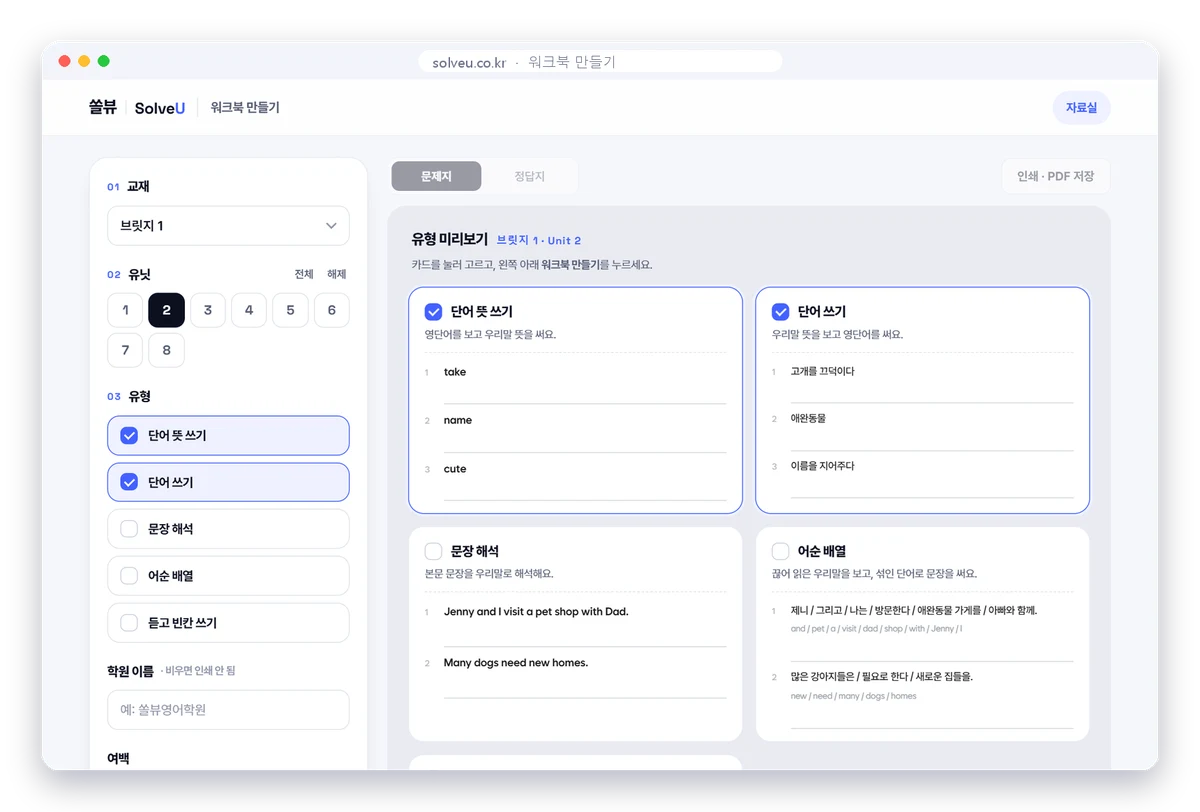
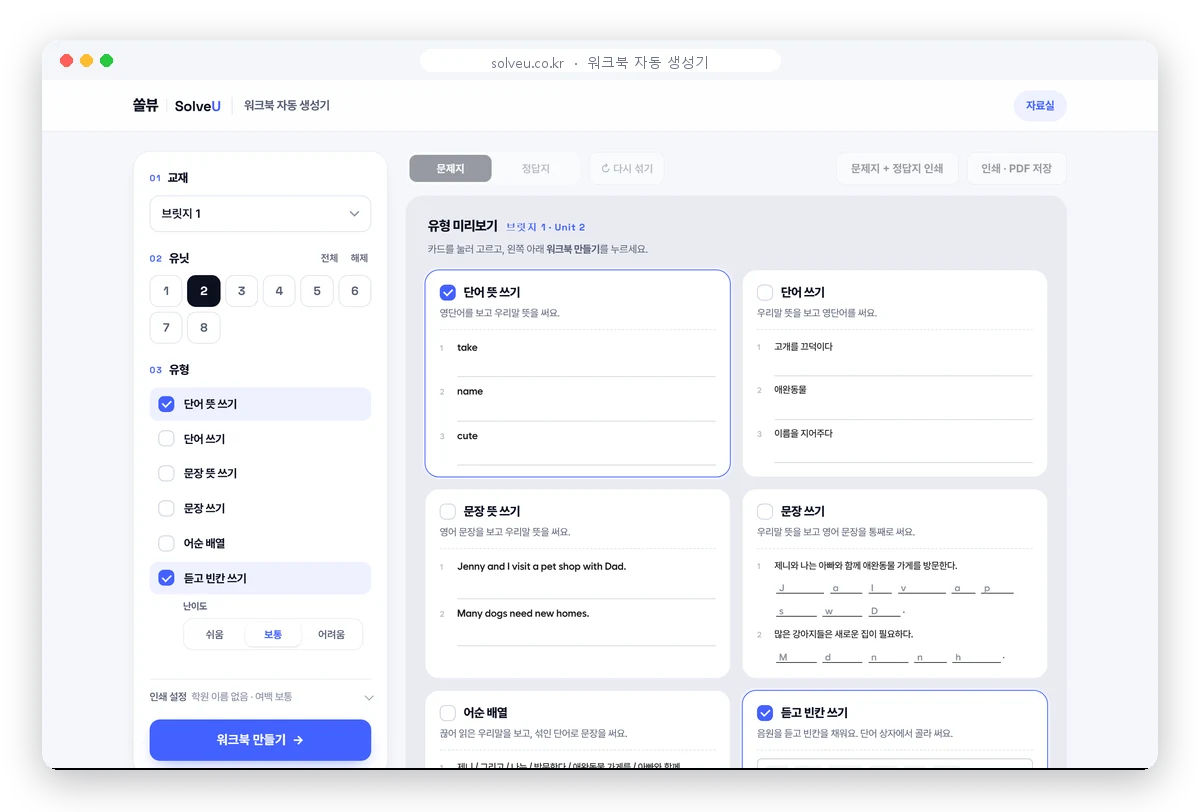
[생성기] 홈페이지 진단 보완(사용자 지시, 홈페이지 창 대신): 생성기 6가지 유형·새 캡처, 문의 FAQ 선생님 자료 '곧 열려요', 홈 E-Book·생성기 카드 '곧 열려요', 학년 표시 글씨 12.5px, 휴대폰 누르는 곳 넉넉하게

diff --git a/contact/index.html b/contact/index.html
@@ -14,7 +14,7 @@
 <link rel="stylesheet" href="https://cdn.jsdelivr.net/gh/orioncactus/pretendard@v1.3.9/dist/web/variable/pretendardvariable-dynamic-subset.min.css">
 <link rel="preconnect" href="https://fonts.googleapis.com"><link rel="preconnect" href="https://fonts.gstatic.com" crossorigin>
 <link href="https://fonts.googleapis.com/css2?family=Space+Grotesk:wght@500;600;700&display=swap" rel="stylesheet">
-<link rel="stylesheet" href="/assets/site.css?v=6b867f54">
+<link rel="stylesheet" href="/assets/site.css?v=b7f4b84a">
 <style>
 .top{padding:56px 0 8px}
 .top h1{font-size:clamp(32px,4.6vw,50px);font-weight:800;letter-spacing:-.05em;margin-top:14px}
@@ -75,7 +75,7 @@
 
 <section class="top"><div class="wrap">
   <h1 class="rev">무엇이 궁금하세요?</h1>
-  <div class="faq"><details class="rev"><summary>우리 아이는 어느 교재부터 시작하나요?</summary><div class="a">학년보다 지금 실력으로 골라요.<ul class="pick"><li><span>영어를 아직 못 읽어요</span><a class="bk" href="/books/phonics/">파닉스</a></li><li><span>문장은 처음이에요</span><a class="bk" href="/books/starter/">스타터</a></li><li><span>품사부터 차근차근 잡아요</span><a class="bk" href="/books/bridge/">브릿지</a></li><li><span>문장을 정확하게 해석해요<small>중학생 기초 다지기로 좋아요</small></span><a class="bk" href="/books/intro/">입문</a></li><li><span>문장 구조를 보며 읽어요<small>고등학생 기초 다지기로 좋아요</small></span><a class="bk" href="/books/basic/">기본</a></li><li><span>모의고사를 처음 준비해요</span><a class="bk" href="/books/mock/">첫모의고사</a></li><li><span>처음 문법을 시작해요</span><a class="bk" href="/books/grammar/">그래머&라이팅</a></li></ul>교재마다 한 유닛을 미리 풀어 볼 수 있어요.<a class="go" href="/home/#books">단계별 교재 보기 →</a></div></details><details class="rev"><summary>꼭 순서대로 해야 하나요?</summary><div class="a">파닉스 → 스타터 → 브릿지 → 입문 → 기본 → 첫모의고사 순서예요. 실력이 되면 건너뛰어도 돼요. 그래머&라이팅은 브릿지~기본과 함께 써요.</div></details><details class="rev"><summary>한 권 끝내는 데 얼마나 걸리나요?</summary><div class="a"><ul class="pick"><li><span>파닉스</span><b class="v">1·2권 약 3개월 (초등 고학년·중등 약 1~2개월)</b></li><li><span>스타터</span><b class="v">권당 약 23회</b></li><li><span>브릿지</span><b class="v">1권 약 23회 · 2권 약 26회</b></li><li><span>입문 · 기본 · 첫모의고사</span><b class="v">권당 약 16회</b></li><li><span>그래머&라이팅</span><b class="v">권당 약 14회</b></li></ul></div></details><details class="rev"><summary>교재는 어디서 사나요?</summary><div class="a">스마트스토어에서 팔아요. 배송·교환·반품도 스마트스토어 안내를 따라요.<a class="go store">스마트스토어 열기</a></div></details><details class="rev"><summary>다음 권은 언제 나오나요?</summary><div class="a">출간되면 홈페이지·스토어에 가장 먼저 알려 드려요.</div></details><details class="rev"><summary>음원·강의를 QR 없이 들을 수 있나요?</summary><div class="a">네. 교재와 유닛을 고르면 바로 들을 수 있어요. 로그인 없이 컴퓨터·태블릿에서도 열려요.<a class="go" href="/studio/">음원·강의 →</a></div></details><details class="rev"><summary>강의는 따로 돈을 내나요?</summary><div class="a">아니요, 무료예요. 스타터·입문을 뺀 모든 교재에 저자 강의가 있어요.<a class="go" href="/studio/">음원·강의 →</a></div></details><details class="rev"><summary>선생님용 자료는 어디서 받나요?</summary><div class="a">수업가이드·학부모 상담 자료·수업용 E-Book·워크북 자동 생성기를 휴대폰 문자 인증 한 번으로 받을 수 있어요.<a class="go" href="/library/#teacher">선생님 자료실 →</a></div></details><details class="rev"><summary>정답지가 있나요?</summary><div class="a">네, 누구나 무료로 받을 수 있어요.<a class="go" href="/library/#books">정답 PDF 받기 →</a></div></details></div>
+  <div class="faq"><details class="rev"><summary>우리 아이는 어느 교재부터 시작하나요?</summary><div class="a">학년보다 지금 실력으로 골라요.<ul class="pick"><li><span>영어를 아직 못 읽어요</span><a class="bk" href="/books/phonics/">파닉스</a></li><li><span>문장은 처음이에요</span><a class="bk" href="/books/starter/">스타터</a></li><li><span>품사부터 차근차근 잡아요</span><a class="bk" href="/books/bridge/">브릿지</a></li><li><span>문장을 정확하게 해석해요<small>중학생 기초 다지기로 좋아요</small></span><a class="bk" href="/books/intro/">입문</a></li><li><span>문장 구조를 보며 읽어요<small>고등학생 기초 다지기로 좋아요</small></span><a class="bk" href="/books/basic/">기본</a></li><li><span>모의고사를 처음 준비해요</span><a class="bk" href="/books/mock/">첫모의고사</a></li><li><span>처음 문법을 시작해요</span><a class="bk" href="/books/grammar/">그래머&라이팅</a></li></ul>교재마다 한 유닛을 미리 풀어 볼 수 있어요.<a class="go" href="/home/#books">단계별 교재 보기 →</a></div></details><details class="rev"><summary>꼭 순서대로 해야 하나요?</summary><div class="a">파닉스 → 스타터 → 브릿지 → 입문 → 기본 → 첫모의고사 순서예요. 실력이 되면 건너뛰어도 돼요. 그래머&라이팅은 브릿지~기본과 함께 써요.</div></details><details class="rev"><summary>한 권 끝내는 데 얼마나 걸리나요?</summary><div class="a"><ul class="pick"><li><span>파닉스</span><b class="v">1·2권 약 3개월 (초등 고학년·중등 약 1~2개월)</b></li><li><span>스타터</span><b class="v">권당 약 23회</b></li><li><span>브릿지</span><b class="v">1권 약 23회 · 2권 약 26회</b></li><li><span>입문 · 기본 · 첫모의고사</span><b class="v">권당 약 16회</b></li><li><span>그래머&라이팅</span><b class="v">권당 약 14회</b></li></ul></div></details><details class="rev"><summary>교재는 어디서 사나요?</summary><div class="a">스마트스토어에서 팔아요. 배송·교환·반품도 스마트스토어 안내를 따라요.<a class="go store">스마트스토어 열기</a></div></details><details class="rev"><summary>다음 권은 언제 나오나요?</summary><div class="a">출간되면 홈페이지·스토어에 가장 먼저 알려 드려요.</div></details><details class="rev"><summary>음원·강의를 QR 없이 들을 수 있나요?</summary><div class="a">네. 교재와 유닛을 고르면 바로 들을 수 있어요. 로그인 없이 컴퓨터·태블릿에서도 열려요.<a class="go" href="/studio/">음원·강의 →</a></div></details><details class="rev"><summary>강의는 따로 돈을 내나요?</summary><div class="a">아니요, 무료예요. 스타터·입문을 뺀 모든 교재에 저자 강의가 있어요.<a class="go" href="/studio/">음원·강의 →</a></div></details><details class="rev"><summary>선생님용 자료는 어디서 받나요?</summary><div class="a">수업용 E-Book·워크북 자동 생성기 같은 선생님 전용 자료는 곧 열려요. 열리면 휴대폰 문자 인증 한 번으로 모두 무료로 쓸 수 있어요.<a class="go" href="/library/#teacher">선생님 자료실 →</a></div></details><details class="rev"><summary>정답지가 있나요?</summary><div class="a">네, 누구나 무료로 받을 수 있어요.<a class="go" href="/library/#books">정답 PDF 받기 →</a></div></details></div>
   <div class="more rev"><b>찾는 답이 없나요?</b>
     <div class="mbtn"><a href="/report/"><span class="ic"><svg viewBox="0 0 24 24" aria-hidden="true"><path fill="none" stroke="currentColor" stroke-width="2" stroke-linejoin="round" d="M6 21V4m0 1h11l-2 4 2 4H6"/></svg></span>오타·정답 오류 신고</a><a class="store"><span class="ic"><svg viewBox="0 0 24 24" aria-hidden="true"><path fill="none" stroke="currentColor" stroke-width="2" stroke-linejoin="round" d="M5 8h14l-1 12H6zM9 8V6a3 3 0 0 1 6 0v2"/></svg></span>구매·배송 문의</a><a class="talk"><span class="ic"><svg viewBox="0 0 24 24" aria-hidden="true"><path fill="none" stroke="currentColor" stroke-width="2" stroke-linejoin="round" d="M4 5h16v11H9l-5 4z"/></svg></span>그 밖의 문의</a></div>
   </div>
@@ -89,8 +89,8 @@
   <nav><a href="/home/#books">교재</a><a href="/studio/">음원·강의</a><a href="https://www.youtube.com/channel/UCoLiIPQe_U01fMFa0X1F2ng/playlists" target="_blank" rel="noopener">유튜브 강의 ↗</a><a href="https://www.instagram.com/solveu_baek/" target="_blank" rel="noopener">인스타그램 ↗</a><a href="/library/">자료실</a><a href="/contact/">문의</a><a href="/report/">오류 신고</a><a class="store">스마트스토어</a><a class="talk">톡톡</a><a href="/terms/">이용약관</a><a href="/privacy/">개인정보처리방침</a></nav>
   <span class="biz"></span>
 </div></footer>
-<script src="/assets/reviews.js?v=6b867f54"></script>
-<script src="/assets/site.js?v=6b867f54"></script>
+<script src="/assets/reviews.js?v=b7f4b84a"></script>
+<script src="/assets/site.js?v=b7f4b84a"></script>
 <script></script>
 <script defer src="https://static.cloudflareinsights.com/beacon.min.js" data-cf-beacon='{"token": "be34a6ce385a49cfa586185de49690a5"}'></script>
 </body>

diff --git a/home/index.html b/home/index.html
@@ -15,7 +15,7 @@
 <link rel="stylesheet" href="https://cdn.jsdelivr.net/gh/orioncactus/pretendard@v1.3.9/dist/web/variable/pretendardvariable-dynamic-subset.min.css">
 <link rel="preconnect" href="https://fonts.googleapis.com"><link rel="preconnect" href="https://fonts.gstatic.com" crossorigin>
 <link href="https://fonts.googleapis.com/css2?family=Space+Grotesk:wght@500;600;700&display=swap" rel="stylesheet">
-<link rel="stylesheet" href="/assets/site.css?v=6b867f54">
+<link rel="stylesheet" href="/assets/site.css?v=b7f4b84a">
 <style>
 .stp .one small{display:block;font-size:12.5px;color:var(--mute);margin-top:2px}
 /* 어디서부터 시작할까요 */
@@ -101,7 +101,7 @@
 .stp:hover{border-color:var(--ink);transform:translateY(-3px)}
 .stp .no{display:flex;align-items:center;justify-content:space-between;gap:8px}
 .stp .no b{font-family:var(--mono);font-size:13px;font-weight:700;color:var(--brand)}
-.stp .no .chip{font-size:11.5px;padding:4px 9px}
+.stp .no .chip{font-size:12.5px;padding:4px 9px}
 .stp .nm{font-size:19px;font-weight:800;letter-spacing:-.04em;margin-top:12px}
 .stp .one{font-size:13.5px;color:var(--sub);line-height:1.5;margin-top:6px}
 .stp .cv{display:flex;gap:6px;align-items:flex-end;margin-top:auto;padding-top:14px}
@@ -188,7 +188,7 @@
 
 <section class="sec" id="tools"><div class="wrap">
   <div class="sh rev"><h2>책 한 권에 수업 도구까지</h2></div>
-  <div class="tg"><a class="tl rev" href="/studio/"><i><svg viewBox="0 0 24 24" aria-hidden="true"><path fill="none" stroke="currentColor" stroke-width="2" d="M4 4h6v6H4zM14 4h6v6h-6zM4 14h6v6H4z"/><path fill="currentColor" d="M14 14h3v3h-3zM17 17h3v3h-3z"/></svg></i><b>QR 음원</b><span>책의 QR로 듣고 녹음 숙제까지</span></a><a class="tl rev" href="https://www.youtube.com/channel/UCoLiIPQe_U01fMFa0X1F2ng/playlists" target="_blank" rel="noopener"><i><svg viewBox="0 0 24 24" aria-hidden="true"><rect x="3" y="5" width="18" height="14" rx="3" fill="none" stroke="currentColor" stroke-width="2"/><path fill="currentColor" d="M10 9v6l5-3z"/></svg></i><b>저자 직강</b><span>유튜브에 전체 공개 ↗</span></a><a class="tl rev tch" href="/library/#ebook"><i><svg viewBox="0 0 24 24" aria-hidden="true"><rect x="3" y="4" width="18" height="12" rx="2" fill="none" stroke="currentColor" stroke-width="2"/><path fill="none" stroke="currentColor" stroke-width="2" stroke-linecap="round" d="M9 20h6M12 16v4M7 12l3-3 2 2 4-4"/></svg></i><em>선생님용</em><b>수업용 E-Book</b><span>교재 그대로 전자칠판에 띄워 판서해요</span></a><a class="tl rev tch" href="/library/#workbook"><i><svg viewBox="0 0 24 24" aria-hidden="true"><path fill="none" stroke="currentColor" stroke-width="2" stroke-linejoin="round" d="M8 3h10v14H8zM5 7v14h10"/><path fill="none" stroke="currentColor" stroke-width="2" stroke-linecap="round" d="M11 8h4M11 12h4"/></svg></i><em>선생님용</em><b>워크북 자동 생성기</b><span>유닛만 고르면 1분, 정답지까지</span></a></div>
+  <div class="tg"><a class="tl rev" href="/studio/"><i><svg viewBox="0 0 24 24" aria-hidden="true"><path fill="none" stroke="currentColor" stroke-width="2" d="M4 4h6v6H4zM14 4h6v6h-6zM4 14h6v6H4z"/><path fill="currentColor" d="M14 14h3v3h-3zM17 17h3v3h-3z"/></svg></i><b>QR 음원</b><span>책의 QR로 듣고 녹음 숙제까지</span></a><a class="tl rev" href="https://www.youtube.com/channel/UCoLiIPQe_U01fMFa0X1F2ng/playlists" target="_blank" rel="noopener"><i><svg viewBox="0 0 24 24" aria-hidden="true"><rect x="3" y="5" width="18" height="14" rx="3" fill="none" stroke="currentColor" stroke-width="2"/><path fill="currentColor" d="M10 9v6l5-3z"/></svg></i><b>저자 직강</b><span>유튜브에 전체 공개 ↗</span></a><a class="tl rev tch" href="/library/#ebook"><i><svg viewBox="0 0 24 24" aria-hidden="true"><rect x="3" y="4" width="18" height="12" rx="2" fill="none" stroke="currentColor" stroke-width="2"/><path fill="none" stroke="currentColor" stroke-width="2" stroke-linecap="round" d="M9 20h6M12 16v4M7 12l3-3 2 2 4-4"/></svg></i><em>곧 열려요</em><b>수업용 E-Book</b><span>교재 그대로 전자칠판에 띄워 판서해요</span></a><a class="tl rev tch" href="/library/#workbook"><i><svg viewBox="0 0 24 24" aria-hidden="true"><path fill="none" stroke="currentColor" stroke-width="2" stroke-linejoin="round" d="M8 3h10v14H8zM5 7v14h10"/><path fill="none" stroke="currentColor" stroke-width="2" stroke-linecap="round" d="M11 8h4M11 12h4"/></svg></i><em>곧 열려요</em><b>워크북 자동 생성기</b><span>유닛만 고르면 1분, 정답지까지</span></a></div>
 </div></section>
 
 <section class="sec" id="author"><div class="wrap">
@@ -221,8 +221,8 @@
   <nav><a href="/home/#books">교재</a><a href="/studio/">음원·강의</a><a href="https://www.youtube.com/channel/UCoLiIPQe_U01fMFa0X1F2ng/playlists" target="_blank" rel="noopener">유튜브 강의 ↗</a><a href="https://www.instagram.com/solveu_baek/" target="_blank" rel="noopener">인스타그램 ↗</a><a href="/library/">자료실</a><a href="/contact/">문의</a><a href="/report/">오류 신고</a><a class="store">스마트스토어</a><a class="talk">톡톡</a><a href="/terms/">이용약관</a><a href="/privacy/">개인정보처리방침</a></nav>
   <span class="biz"></span>
 </div></footer>
-<script src="/assets/reviews.js?v=6b867f54"></script>
-<script src="/assets/site.js?v=6b867f54"></script>
+<script src="/assets/reviews.js?v=b7f4b84a"></script>
+<script src="/assets/site.js?v=b7f4b84a"></script>
 <script>
 var S=SOLVEU;
 /* 첫 화면 숫자: 처음 한 번 0부터 올라감 */

diff --git a/library/index.html b/library/index.html
@@ -14,7 +14,7 @@
 <link rel="stylesheet" href="https://cdn.jsdelivr.net/gh/orioncactus/pretendard@v1.3.9/dist/web/variable/pretendardvariable-dynamic-subset.min.css">
 <link rel="preconnect" href="https://fonts.googleapis.com"><link rel="preconnect" href="https://fonts.gstatic.com" crossorigin>
 <link href="https://fonts.googleapis.com/css2?family=Space+Grotesk:wght@500;600;700&display=swap" rel="stylesheet">
-<link rel="stylesheet" href="/assets/site.css?v=6b867f54">
+<link rel="stylesheet" href="/assets/site.css?v=b7f4b84a">
 <style>
 /* E-Book · 워크북 자동 생성기 소개 */
 .tshow{display:flex;flex-direction:column;gap:22px;margin-top:40px}
@@ -241,7 +241,7 @@
       
     <div class="tools2 rev">
       <div class="tc" id="ebook"><div class="im"><img src="/library/img/ebook_show.webp" alt="수업용 E-Book 화면" loading="lazy"></div><div class="tx"><span class="tg">선생님용 · 책 14권</span><h3>수업용 E-Book</h3><p>교재 그대로 전자칠판에 띄워 판서하고, 정답을 하나씩 공개해요.</p></div></div>
-      <div class="tc" id="workbook"><div class="im"><img src="/academy/img/tool_workbook_ui.webp?v=2" alt="워크북 자동 생성기 화면" loading="lazy"></div><div class="tx"><span class="tg">선생님용 · 책 12권</span><h3>워크북 자동 생성기</h3><p>유닛만 고르면 1분. 5가지 유형 워크북이 정답지와 함께 나와요.</p></div></div>
+      <div class="tc" id="workbook"><div class="im"><img src="/academy/img/tool_workbook_ui.webp?v=3" alt="워크북 자동 생성기 화면" loading="lazy"></div><div class="tx"><span class="tg">선생님용 · 책 12권</span><h3>워크북 자동 생성기</h3><p>유닛만 고르면 1분. 6가지 유형 워크북이 정답지와 함께 나와요.</p></div></div>
     </div>
       <div class="xtra rev"><b class="xh">인쇄해서 바로 쓰는 자료</b><ul>
         <li><b>수업가이드</b><span>교재마다 유닛 흐름과 회차 구성</span></li>
@@ -270,8 +270,8 @@
   <nav><a href="/home/#books">교재</a><a href="/studio/">음원·강의</a><a href="https://www.youtube.com/channel/UCoLiIPQe_U01fMFa0X1F2ng/playlists" target="_blank" rel="noopener">유튜브 강의 ↗</a><a href="https://www.instagram.com/solveu_baek/" target="_blank" rel="noopener">인스타그램 ↗</a><a href="/library/">자료실</a><a href="/contact/">문의</a><a href="/report/">오류 신고</a><a class="store">스마트스토어</a><a class="talk">톡톡</a><a href="/terms/">이용약관</a><a href="/privacy/">개인정보처리방침</a></nav>
   <span class="biz"></span>
 </div></footer>
-<script src="/assets/reviews.js?v=6b867f54"></script>
-<script src="/assets/site.js?v=6b867f54"></script>
+<script src="/assets/reviews.js?v=b7f4b84a"></script>
+<script src="/assets/site.js?v=b7f4b84a"></script>
 <script></script>
 <script defer src="https://static.cloudflareinsights.com/beacon.min.js" data-cf-beacon='{"token": "be34a6ce385a49cfa586185de49690a5"}'></script>
 </body>

diff --git a/studio/index.html b/studio/index.html
@@ -14,7 +14,7 @@
 <link rel="stylesheet" href="https://cdn.jsdelivr.net/gh/orioncactus/pretendard@v1.3.9/dist/web/variable/pretendardvariable-dynamic-subset.min.css">
 <link rel="preconnect" href="https://fonts.googleapis.com"><link rel="preconnect" href="https://fonts.gstatic.com" crossorigin>
 <link href="https://fonts.googleapis.com/css2?family=Space+Grotesk:wght@500;600;700&display=swap" rel="stylesheet">
-<link rel="stylesheet" href="/assets/site.css?v=6b867f54">
+<link rel="stylesheet" href="/assets/site.css?v=b7f4b84a">
 <style>
 .st{max-width:1160px;margin:0 auto;padding:44px 24px 24px;min-height:60vh}
 .st h1{font-size:clamp(30px,4.4vw,46px);font-weight:800;letter-spacing:-.05em;line-height:1.15}
@@ -250,8 +250,8 @@
   <nav><a href="/home/#books">교재</a><a href="/studio/">음원·강의</a><a href="https://www.youtube.com/channel/UCoLiIPQe_U01fMFa0X1F2ng/playlists" target="_blank" rel="noopener">유튜브 강의 ↗</a><a href="https://www.instagram.com/solveu_baek/" target="_blank" rel="noopener">인스타그램 ↗</a><a href="/library/">자료실</a><a href="/contact/">문의</a><a href="/report/">오류 신고</a><a class="store">스마트스토어</a><a class="talk">톡톡</a><a href="/terms/">이용약관</a><a href="/privacy/">개인정보처리방침</a></nav>
   <span class="biz"></span>
 </div></footer>
-<script src="/assets/reviews.js?v=6b867f54"></script>
-<script src="/assets/site.js?v=6b867f54"></script>
+<script src="/assets/reviews.js?v=b7f4b84a"></script>
+<script src="/assets/site.js?v=b7f4b84a"></script>
 <script>
 const BOOKS = window.BOOKS||[];
 const NAME = {"ph1": "저절로 파닉스 1", "ph2": "저절로 파닉스 2", "rst1": "저절로 스타터 1", "rst2": "저절로 스타터 2", "rbr1": "저절로 브릿지 1", "rbr2": "저절로 브릿지 2", "rin1": "저절로 입문 1", "rin2": "저절로 입문 2", "rba1": "저절로 기본 1", "rba2": "저절로 기본 2", "rmo1": "저절로 첫모의고사 1", "rmo2": "저절로 첫모의고사 2", "gw1": "저절로 그래머&라이팅 1", "gw2": "저절로 그래머&라이팅 2"}, SLUG = {"ph": "phonics", "rst": "starter", "rbr": "bridge", "rin": "intro", "rba": "basic", "rmo": "mock", "gw": "grammar"}, STEPL = {"ph1": "1단계 · 파닉스", "ph2": "1단계 · 파닉스", "rst1": "2단계 · 스타터", "rst2": "2단계 · 스타터", "rbr1": "3단계 · 브릿지", "rbr2": "3단계 · 브릿지", "rin1": "4단계 · 입문", "rin2": "4단계 · 입문", "rba1": "5단계 · 기본", "rba2": "5단계 · 기본", "rmo1": "6단계 · 첫모의고사", "rmo2": "6단계 · 첫모의고사", "gw1": "문법·쓰기", "gw2": "문법·쓰기"};

diff --git a/reviews/index.html b/reviews/index.html
@@ -14,7 +14,7 @@
 <link rel="stylesheet" href="https://cdn.jsdelivr.net/gh/orioncactus/pretendard@v1.3.9/dist/web/variable/pretendardvariable-dynamic-subset.min.css">
 <link rel="preconnect" href="https://fonts.googleapis.com"><link rel="preconnect" href="https://fonts.gstatic.com" crossorigin>
 <link href="https://fonts.googleapis.com/css2?family=Space+Grotesk:wght@500;600;700&display=swap" rel="stylesheet">
-<link rel="stylesheet" href="/assets/site.css?v=6b867f54">
+<link rel="stylesheet" href="/assets/site.css?v=b7f4b84a">
 <style>
 .rvpg{padding-top:56px}
 .rvtop{display:flex;align-items:baseline;gap:10px;margin-top:18px}.rvtop b{font-size:28px;font-weight:800}.rvtop span{color:var(--sub);font-size:14.5px;font-weight:600}
@@ -56,8 +56,8 @@
   <nav><a href="/home/#books">교재</a><a href="/studio/">음원·강의</a><a href="https://www.youtube.com/channel/UCoLiIPQe_U01fMFa0X1F2ng/playlists" target="_blank" rel="noopener">유튜브 강의 ↗</a><a href="https://www.instagram.com/solveu_baek/" target="_blank" rel="noopener">인스타그램 ↗</a><a href="/library/">자료실</a><a href="/contact/">문의</a><a href="/report/">오류 신고</a><a class="store">스마트스토어</a><a class="talk">톡톡</a><a href="/terms/">이용약관</a><a href="/privacy/">개인정보처리방침</a></nav>
   <span class="biz"></span>
 </div></footer>
-<script src="/assets/reviews.js?v=6b867f54"></script>
-<script src="/assets/site.js?v=6b867f54"></script>
+<script src="/assets/reviews.js?v=b7f4b84a"></script>
+<script src="/assets/site.js?v=b7f4b84a"></script>
 <script>(function(){var R=(window.SOLVEU_REVIEWS||[]).slice(),role="all",step=new URLSearchParams(location.search).get("step")||"all";
 var esc=function(t){return String(t).replace(/[&<>"]/g,function(c){return{"&":"&amp;","<":"&lt;",">":"&gt;",'"':"&quot;"}[c];});};
 function draw(){var L=R.filter(function(v){return(role==="all"||v.role===role)&&(step==="all"||v.step===step);});

diff --git a/books/basic/index.html b/books/basic/index.html
@@ -15,7 +15,7 @@
 <link rel="stylesheet" href="https://cdn.jsdelivr.net/gh/orioncactus/pretendard@v1.3.9/dist/web/variable/pretendardvariable-dynamic-subset.min.css">
 <link rel="preconnect" href="https://fonts.googleapis.com"><link rel="preconnect" href="https://fonts.gstatic.com" crossorigin>
 <link href="https://fonts.googleapis.com/css2?family=Space+Grotesk:wght@500;600;700&display=swap" rel="stylesheet">
-<link rel="stylesheet" href="/assets/site.css?v=6b867f54">
+<link rel="stylesheet" href="/assets/site.css?v=b7f4b84a">
 <style>
 .bk-hero{padding:28px 0 64px;border-bottom:1px solid var(--line)}
 .bk-hero .split{display:grid;grid-template-columns:minmax(0,1.1fr) minmax(0,.9fr);gap:48px;align-items:center;margin-top:36px}
@@ -165,8 +165,8 @@
   <nav><a href="/home/#books">교재</a><a href="/studio/">음원·강의</a><a href="https://www.youtube.com/channel/UCoLiIPQe_U01fMFa0X1F2ng/playlists" target="_blank" rel="noopener">유튜브 강의 ↗</a><a href="https://www.instagram.com/solveu_baek/" target="_blank" rel="noopener">인스타그램 ↗</a><a href="/library/">자료실</a><a href="/contact/">문의</a><a href="/report/">오류 신고</a><a class="store">스마트스토어</a><a class="talk">톡톡</a><a href="/terms/">이용약관</a><a href="/privacy/">개인정보처리방침</a></nav>
   <span class="biz"></span>
 </div></footer>
-<script src="/assets/reviews.js?v=6b867f54"></script>
-<script src="/assets/site.js?v=6b867f54"></script>
+<script src="/assets/reviews.js?v=b7f4b84a"></script>
+<script src="/assets/site.js?v=b7f4b84a"></script>
 <script>
 S=SOLVEU;
 function tabs(tabSel,panSel){S.$$(tabSel).forEach(function(t){t.onclick=function(){var i=t.dataset.i;S.$$(tabSel).forEach(function(x){x.setAttribute("aria-selected",x===t?"true":"false")});S.$$(panSel).forEach(function(d){d.hidden=d.dataset.i!==i;});};});}

diff --git a/books/bridge/index.html b/books/bridge/index.html
@@ -15,7 +15,7 @@
 <link rel="stylesheet" href="https://cdn.jsdelivr.net/gh/orioncactus/pretendard@v1.3.9/dist/web/variable/pretendardvariable-dynamic-subset.min.css">
 <link rel="preconnect" href="https://fonts.googleapis.com"><link rel="preconnect" href="https://fonts.gstatic.com" crossorigin>
 <link href="https://fonts.googleapis.com/css2?family=Space+Grotesk:wght@500;600;700&display=swap" rel="stylesheet">
-<link rel="stylesheet" href="/assets/site.css?v=6b867f54">
+<link rel="stylesheet" href="/assets/site.css?v=b7f4b84a">
 <style>
 .bk-hero{padding:28px 0 64px;border-bottom:1px solid var(--line)}
 .bk-hero .split{display:grid;grid-template-columns:minmax(0,1.1fr) minmax(0,.9fr);gap:48px;align-items:center;margin-top:36px}
@@ -165,8 +165,8 @@
   <nav><a href="/home/#books">교재</a><a href="/studio/">음원·강의</a><a href="https://www.youtube.com/channel/UCoLiIPQe_U01fMFa0X1F2ng/playlists" target="_blank" rel="noopener">유튜브 강의 ↗</a><a href="https://www.instagram.com/solveu_baek/" target="_blank" rel="noopener">인스타그램 ↗</a><a href="/library/">자료실</a><a href="/contact/">문의</a><a href="/report/">오류 신고</a><a class="store">스마트스토어</a><a class="talk">톡톡</a><a href="/terms/">이용약관</a><a href="/privacy/">개인정보처리방침</a></nav>
   <span class="biz"></span>
 </div></footer>
-<script src="/assets/reviews.js?v=6b867f54"></script>
-<script src="/assets/site.js?v=6b867f54"></script>
+<script src="/assets/reviews.js?v=b7f4b84a"></script>
+<script src="/assets/site.js?v=b7f4b84a"></script>
 <script>
 S=SOLVEU;
 function tabs(tabSel,panSel){S.$$(tabSel).forEach(function(t){t.onclick=function(){var i=t.dataset.i;S.$$(tabSel).forEach(function(x){x.setAttribute("aria-selected",x===t?"true":"false")});S.$$(panSel).forEach(function(d){d.hidden=d.dataset.i!==i;});};});}

diff --git a/books/grammar/index.html b/books/grammar/index.html
@@ -15,7 +15,7 @@
 <link rel="stylesheet" href="https://cdn.jsdelivr.net/gh/orioncactus/pretendard@v1.3.9/dist/web/variable/pretendardvariable-dynamic-subset.min.css">
 <link rel="preconnect" href="https://fonts.googleapis.com"><link rel="preconnect" href="https://fonts.gstatic.com" crossorigin>
 <link href="https://fonts.googleapis.com/css2?family=Space+Grotesk:wght@500;600;700&display=swap" rel="stylesheet">
-<link rel="stylesheet" href="/assets/site.css?v=6b867f54">
+<link rel="stylesheet" href="/assets/site.css?v=b7f4b84a">
 <style>
 .bk-hero{padding:28px 0 64px;border-bottom:1px solid var(--line)}
 .bk-hero .split{display:grid;grid-template-columns:minmax(0,1.1fr) minmax(0,.9fr);gap:48px;align-items:center;margin-top:36px}
@@ -165,8 +165,8 @@
   <nav><a href="/home/#books">교재</a><a href="/studio/">음원·강의</a><a href="https://www.youtube.com/channel/UCoLiIPQe_U01fMFa0X1F2ng/playlists" target="_blank" rel="noopener">유튜브 강의 ↗</a><a href="https://www.instagram.com/solveu_baek/" target="_blank" rel="noopener">인스타그램 ↗</a><a href="/library/">자료실</a><a href="/contact/">문의</a><a href="/report/">오류 신고</a><a class="store">스마트스토어</a><a class="talk">톡톡</a><a href="/terms/">이용약관</a><a href="/privacy/">개인정보처리방침</a></nav>
   <span class="biz"></span>
 </div></footer>
-<script src="/assets/reviews.js?v=6b867f54"></script>
-<script src="/assets/site.js?v=6b867f54"></script>
+<script src="/assets/reviews.js?v=b7f4b84a"></script>
+<script src="/assets/site.js?v=b7f4b84a"></script>
 <script>
 S=SOLVEU;
 function tabs(tabSel,panSel){S.$$(tabSel).forEach(function(t){t.onclick=function(){var i=t.dataset.i;S.$$(tabSel).forEach(function(x){x.setAttribute("aria-selected",x===t?"true":"false")});S.$$(panSel).forEach(function(d){d.hidden=d.dataset.i!==i;});};});}

diff --git a/books/intro/index.html b/books/intro/index.html
@@ -15,7 +15,7 @@
 <link rel="stylesheet" href="https://cdn.jsdelivr.net/gh/orioncactus/pretendard@v1.3.9/dist/web/variable/pretendardvariable-dynamic-subset.min.css">
 <link rel="preconnect" href="https://fonts.googleapis.com"><link rel="preconnect" href="https://fonts.gstatic.com" crossorigin>
 <link href="https://fonts.googleapis.com/css2?family=Space+Grotesk:wght@500;600;700&display=swap" rel="stylesheet">
-<link rel="stylesheet" href="/assets/site.css?v=6b867f54">
+<link rel="stylesheet" href="/assets/site.css?v=b7f4b84a">
 <style>
 .bk-hero{padding:28px 0 64px;border-bottom:1px solid var(--line)}
 .bk-hero .split{display:grid;grid-template-columns:minmax(0,1.1fr) minmax(0,.9fr);gap:48px;align-items:center;margin-top:36px}
@@ -165,8 +165,8 @@
   <nav><a href="/home/#books">교재</a><a href="/studio/">음원·강의</a><a href="https://www.youtube.com/channel/UCoLiIPQe_U01fMFa0X1F2ng/playlists" target="_blank" rel="noopener">유튜브 강의 ↗</a><a href="https://www.instagram.com/solveu_baek/" target="_blank" rel="noopener">인스타그램 ↗</a><a href="/library/">자료실</a><a href="/contact/">문의</a><a href="/report/">오류 신고</a><a class="store">스마트스토어</a><a class="talk">톡톡</a><a href="/terms/">이용약관</a><a href="/privacy/">개인정보처리방침</a></nav>
   <span class="biz"></span>
 </div></footer>
-<script src="/assets/reviews.js?v=6b867f54"></script>
-<script src="/assets/site.js?v=6b867f54"></script>
+<script src="/assets/reviews.js?v=b7f4b84a"></script>
+<script src="/assets/site.js?v=b7f4b84a"></script>
 <script>
 S=SOLVEU;
 function tabs(tabSel,panSel){S.$$(tabSel).forEach(function(t){t.onclick=function(){var i=t.dataset.i;S.$$(tabSel).forEach(function(x){x.setAttribute("aria-selected",x===t?"true":"false")});S.$$(panSel).forEach(function(d){d.hidden=d.dataset.i!==i;});};});}

diff --git a/books/mock/index.html b/books/mock/index.html
@@ -15,7 +15,7 @@
 <link rel="stylesheet" href="https://cdn.jsdelivr.net/gh/orioncactus/pretendard@v1.3.9/dist/web/variable/pretendardvariable-dynamic-subset.min.css">
 <link rel="preconnect" href="https://fonts.googleapis.com"><link rel="preconnect" href="https://fonts.gstatic.com" crossorigin>
 <link href="https://fonts.googleapis.com/css2?family=Space+Grotesk:wght@500;600;700&display=swap" rel="stylesheet">
-<link rel="stylesheet" href="/assets/site.css?v=6b867f54">
+<link rel="stylesheet" href="/assets/site.css?v=b7f4b84a">
 <style>
 .bk-hero{padding:28px 0 64px;border-bottom:1px solid var(--line)}
 .bk-hero .split{display:grid;grid-template-columns:minmax(0,1.1fr) minmax(0,.9fr);gap:48px;align-items:center;margin-top:36px}
@@ -164,8 +164,8 @@
   <nav><a href="/home/#books">교재</a><a href="/studio/">음원·강의</a><a href="https://www.youtube.com/channel/UCoLiIPQe_U01fMFa0X1F2ng/playlists" target="_blank" rel="noopener">유튜브 강의 ↗</a><a href="https://www.instagram.com/solveu_baek/" target="_blank" rel="noopener">인스타그램 ↗</a><a href="/library/">자료실</a><a href="/contact/">문의</a><a href="/report/">오류 신고</a><a class="store">스마트스토어</a><a class="talk">톡톡</a><a href="/terms/">이용약관</a><a href="/privacy/">개인정보처리방침</a></nav>
   <span class="biz"></span>
 </div></footer>
-<script src="/assets/reviews.js?v=6b867f54"></script>
-<script src="/assets/site.js?v=6b867f54"></script>
+<script src="/assets/reviews.js?v=b7f4b84a"></script>
+<script src="/assets/site.js?v=b7f4b84a"></script>
 <script>
 S=SOLVEU;
 function tabs(tabSel,panSel){S.$$(tabSel).forEach(function(t){t.onclick=function(){var i=t.dataset.i;S.$$(tabSel).forEach(function(x){x.setAttribute("aria-selected",x===t?"true":"false")});S.$$(panSel).forEach(function(d){d.hidden=d.dataset.i!==i;});};});}

diff --git a/books/phonics/index.html b/books/phonics/index.html
@@ -15,7 +15,7 @@
 <link rel="stylesheet" href="https://cdn.jsdelivr.net/gh/orioncactus/pretendard@v1.3.9/dist/web/variable/pretendardvariable-dynamic-subset.min.css">
 <link rel="preconnect" href="https://fonts.googleapis.com"><link rel="preconnect" href="https://fonts.gstatic.com" crossorigin>
 <link href="https://fonts.googleapis.com/css2?family=Space+Grotesk:wght@500;600;700&display=swap" rel="stylesheet">
-<link rel="stylesheet" href="/assets/site.css?v=6b867f54">
+<link rel="stylesheet" href="/assets/site.css?v=b7f4b84a">
 <style>
 .bk-hero{padding:28px 0 64px;border-bottom:1px solid var(--line)}
 .bk-hero .split{display:grid;grid-template-columns:minmax(0,1.1fr) minmax(0,.9fr);gap:48px;align-items:center;margin-top:36px}
@@ -169,8 +169,8 @@
   <nav><a href="/home/#books">교재</a><a href="/studio/">음원·강의</a><a href="https://www.youtube.com/channel/UCoLiIPQe_U01fMFa0X1F2ng/playlists" target="_blank" rel="noopener">유튜브 강의 ↗</a><a href="https://www.instagram.com/solveu_baek/" target="_blank" rel="noopener">인스타그램 ↗</a><a href="/library/">자료실</a><a href="/contact/">문의</a><a href="/report/">오류 신고</a><a class="store">스마트스토어</a><a class="talk">톡톡</a><a href="/terms/">이용약관</a><a href="/privacy/">개인정보처리방침</a></nav>
   <span class="biz"></span>
 </div></footer>
-<script src="/assets/reviews.js?v=6b867f54"></script>
-<script src="/assets/site.js?v=6b867f54"></script>
+<script src="/assets/reviews.js?v=b7f4b84a"></script>
+<script src="/assets/site.js?v=b7f4b84a"></script>
 <script>
 S=SOLVEU;
 function tabs(tabSel,panSel){S.$$(tabSel).forEach(function(t){t.onclick=function(){var i=t.dataset.i;S.$$(tabSel).forEach(function(x){x.setAttribute("aria-selected",x===t?"true":"false")});S.$$(panSel).forEach(function(d){d.hidden=d.dataset.i!==i;});};});}

diff --git a/books/starter/index.html b/books/starter/index.html
@@ -15,7 +15,7 @@
 <link rel="stylesheet" href="https://cdn.jsdelivr.net/gh/orioncactus/pretendard@v1.3.9/dist/web/variable/pretendardvariable-dynamic-subset.min.css">
 <link rel="preconnect" href="https://fonts.googleapis.com"><link rel="preconnect" href="https://fonts.gstatic.com" crossorigin>
 <link href="https://fonts.googleapis.com/css2?family=Space+Grotesk:wght@500;600;700&display=swap" rel="stylesheet">
-<link rel="stylesheet" href="/assets/site.css?v=6b867f54">
+<link rel="stylesheet" href="/assets/site.css?v=b7f4b84a">
 <style>
 .bk-hero{padding:28px 0 64px;border-bottom:1px solid var(--line)}
 .bk-hero .split{display:grid;grid-template-columns:minmax(0,1.1fr) minmax(0,.9fr);gap:48px;align-items:center;margin-top:36px}
@@ -165,8 +165,8 @@
   <nav><a href="/home/#books">교재</a><a href="/studio/">음원·강의</a><a href="https://www.youtube.com/channel/UCoLiIPQe_U01fMFa0X1F2ng/playlists" target="_blank" rel="noopener">유튜브 강의 ↗</a><a href="https://www.instagram.com/solveu_baek/" target="_blank" rel="noopener">인스타그램 ↗</a><a href="/library/">자료실</a><a href="/contact/">문의</a><a href="/report/">오류 신고</a><a class="store">스마트스토어</a><a class="talk">톡톡</a><a href="/terms/">이용약관</a><a href="/privacy/">개인정보처리방침</a></nav>
   <span class="biz"></span>
 </div></footer>
-<script src="/assets/reviews.js?v=6b867f54"></script>
-<script src="/assets/site.js?v=6b867f54"></script>
+<script src="/assets/reviews.js?v=b7f4b84a"></script>
+<script src="/assets/site.js?v=b7f4b84a"></script>
 <script>
 S=SOLVEU;
 function tabs(tabSel,panSel){S.$$(tabSel).forEach(function(t){t.onclick=function(){var i=t.dataset.i;S.$$(tabSel).forEach(function(x){x.setAttribute("aria-selected",x===t?"true":"false")});S.$$(panSel).forEach(function(d){d.hidden=d.dataset.i!==i;});};});}
